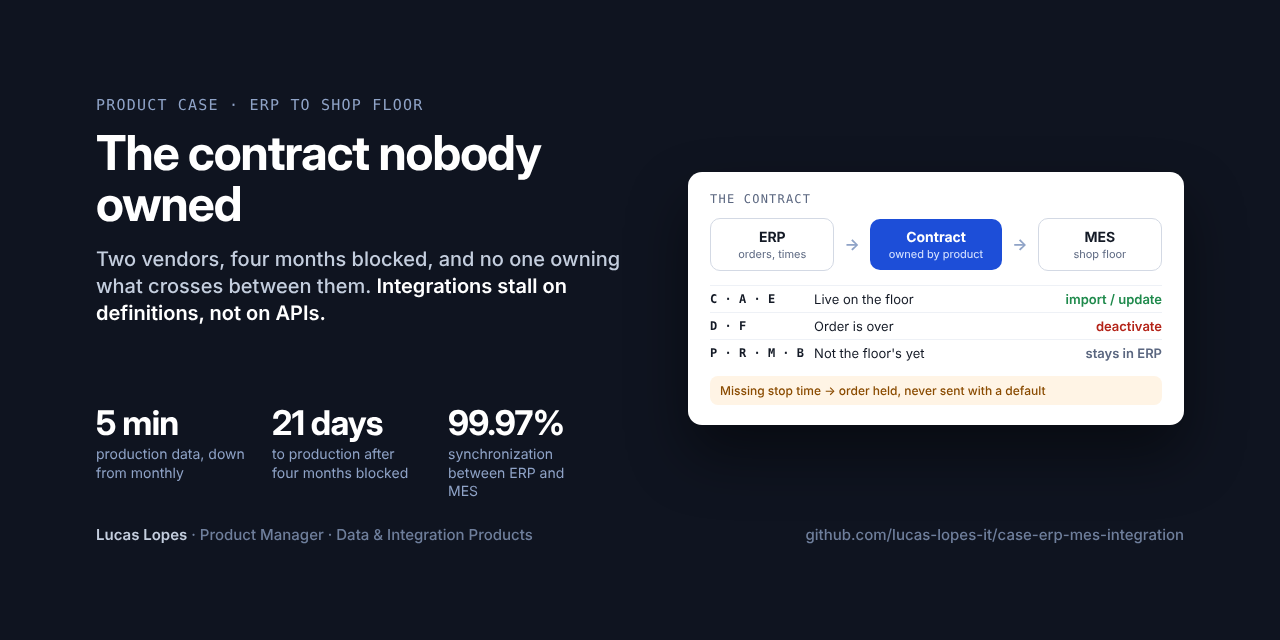
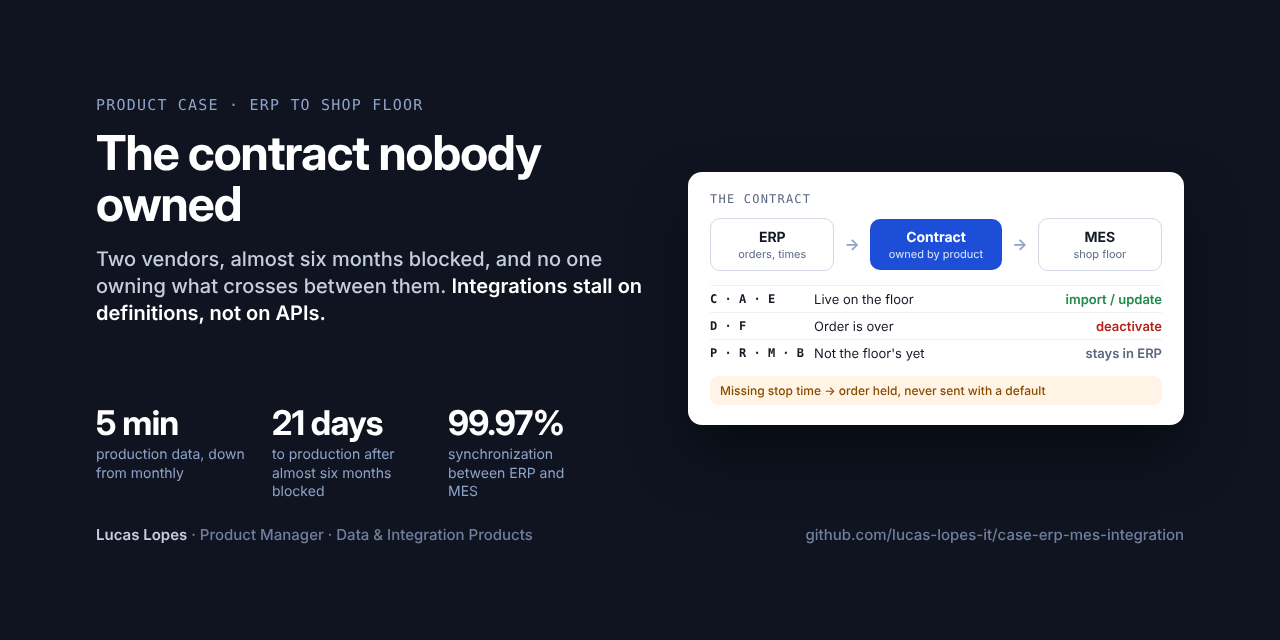
Use almost six months for the blocked period
Aligns the repo and cover with the project leader letter and the skill
matrix.

Claude-Session: https://claude.ai/code/session_013pWEh4TcHNrPo1i61WNHBM

Changed region(s): [[0.0625, 0.375, 0.5, 0.4688], [0.2188, 0.7188, 0.3125, 0.7812]]

diff --git a/docs/img/source/cover.html b/docs/img/source/cover.html
@@ -31,10 +31,10 @@ td.a{text-align:right;font-weight:600}
 <div class="l">
 <div class="tag">Product case · ERP to shop floor</div>
 <h1>The contract nobody owned</h1>
-<div class="tese">Two vendors, four months blocked, and no one owning what crosses between them. <b>Integrations stall on definitions, not on APIs.</b></div>
+<div class="tese">Two vendors, almost six months blocked, and no one owning what crosses between them. <b>Integrations stall on definitions, not on APIs.</b></div>
 <div class="stats">
 <div><div class="n">5 min</div><div class="k">production data, down from monthly</div></div>
-<div><div class="n">21 days</div><div class="k">to production after four months blocked</div></div>
+<div><div class="n">21 days</div><div class="k">to production after almost six months blocked</div></div>
 <div><div class="n">99.97%</div><div class="k">synchronization between ERP and MES</div></div>
 </div></div>
 <div class="r"><div class="card">

diff --git a/README.md b/README.md
@@ -7,7 +7,7 @@
 > or customer information** from the real environment. Products, orders and lines are fictional. The
 > ERP (Sankhya on Oracle) and the MES (Syneco) are represented by their contract, not by their code.
 
-An integration between the ERP and the shop floor that had been stuck between two vendors for four
+An integration between the ERP and the shop floor that had been stuck between two vendors for almost six
 months. It took production data from monthly to every 5 minutes, and went live 21 days after I took ownership of the one thing nobody owned: the definition of
 what crosses from one system to the other.
 
@@ -23,7 +23,7 @@ scope, with both vendors building to it. The full story, in first person, is in
 - **The plant can measure its own efficiency.** With planning, the floor's data closed the first OEE
   from source: 1,932.5 productive hours against 15.9 hours of unplanned stops, 736,727 units, and
   14,428 stops tracked by reason.
-- **Live in 21 days** after about four months blocked between the ERP and MES vendors, with **99.97%
+- **Live in 21 days** after almost six months blocked between the ERP and MES vendors, with **99.97%
   synchronization** between the two systems.
 
 ## The problem
@@ -82,7 +82,7 @@ integration was in production 21 days later.
 | Orders reaching the floor with no manual touch | Did retyping end? | **Measured:** about 77 a day, 10 lines |
 | Synchronization between ERP and MES | Does the floor see what the ERP says? | **Measured:** 99.97% |
 | Stops tracked by reason | Can the plant explain its downtime? | **Measured:** 14,428 stops; 15.9 h unplanned against 1,932.5 h productive |
-| Time from definition to production | Did owning the contract unblock it? | **Measured:** 21 days, after about four months blocked |
+| Time from definition to production | Did owning the contract unblock it? | **Measured:** 21 days, after almost six months blocked |
 | Orders synchronized | Did the first phase land? | **Measured:** 815 in phase 1 |
 | Workflow uptime | Do the integration runs themselves stay up? | **Measured:** 90.2% for the workflows (not the machines); target set for the next phase |
 | Held orders and time to release them | Is the data good enough to send? | **Rebuilt here:** every hold carries the field that failed |

diff --git a/docs/CASE.md b/docs/CASE.md
@@ -3,13 +3,13 @@
 The product story in first person. The decisions are detailed in [DECISIONS.md](DECISIONS.md), the
 contract in [CONTRACT.md](CONTRACT.md), and the code that rebuilds its rules is in this repository.
 
-## Four months of two systems that didn't talk
+## Almost six months of two systems that didn't talk
 
 Ventisol makes fans and air conditioners in Santa Catarina, Brazil. The ERP (Sankhya, on Oracle)
 holds the production orders. The shop floor runs on a MES (Syneco, from the vendor SKA), where
 operators see what to produce, record what they produced and report stops.
 
-When I arrived, the integration between the two had been stuck for about four months. Each vendor
+When I arrived, the integration between the two had been stuck for almost six months. Each vendor
 had its side ready and each one pointed at the other. Meanwhile production was recorded by hand,
 the ERP learned what the factory had made only at the end of the day, and the production records
 that existed were dead data: written down, never used to manage anything.

diff --git a/docs/sprints/sprint-001/review.md b/docs/sprints/sprint-001/review.md
@@ -4,7 +4,7 @@
 
 ## Goal
 
-Unblock an integration that had been stuck between the ERP and MES vendors for about four months,
+Unblock an integration that had been stuck between the ERP and MES vendors for almost six months,
 and put production orders on the floor without retyping.
 
 ## What shipped
@@ -19,7 +19,7 @@ and put production orders on the floor without retyping.
 
 ## Numbers
 
-- 21 days from taking over the definition to production, after about four months blocked.
+- 21 days from taking over the definition to production, after almost six months blocked.
 - Production data from monthly to every 5 minutes.
 - 815 orders synchronized in the first phase, at 99.97% synchronization between ERP and MES.
 

diff --git a/docs/DECISIONS.md b/docs/DECISIONS.md
@@ -14,7 +14,7 @@ integration was built. For A decisions, the status shows what this repository re
 with which fields, who decides when it is wrong) and leave each vendor responsible for its own side.
 
 **Alternatives**
-- Escalate to both vendors and wait for them to agree. It had already been tried for four months.
+- Escalate to both vendors and wait for them to agree. It had already been tried for almost six months.
 - Ask one vendor to own the whole integration. It moves the problem without defining it, and makes
   the client dependent on that vendor for every future change.
 - Build both sides internally. Fastest on paper, but it takes on code that two vendors already

diff --git a/docs/vision/vision.md b/docs/vision/vision.md
@@ -14,7 +14,7 @@ project waits, and the factory keeps retyping.
 
 The usual answers don't solve it:
 
-- escalate to both vendors: it had already been tried for four months;
+- escalate to both vendors: it had already been tried for almost six months;
 - give one vendor the whole integration: it moves the dependency without defining anything;
 - add a middleware product: it connects systems that still disagree on what they mean.
 

diff --git a/docs/sprints/sprint-001/learning.md b/docs/sprints/sprint-001/learning.md
@@ -4,7 +4,7 @@
 
 ### What happened
 
-Two vendors, each with its side ready, each pointing at the other, for four months. Nothing on
+Two vendors, each with its side ready, each pointing at the other, for almost six months. Nothing on
 either side was technically missing. What was missing was a definition of what crosses between them,
 and someone with the authority to decide when they disagreed.
 

diff --git a/docs/CONTRACT.md b/docs/CONTRACT.md
@@ -1,7 +1,7 @@
 # The contract
 
 What crosses the boundary between the ERP and the shop floor, and who owns each part of it. This is
-the document that was missing for four months. The rules marked as rebuilt have tests in this
+the document that was missing for almost six months. The rules marked as rebuilt have tests in this
 repository.
 
 ## Parties

diff --git a/docs/PRD.md b/docs/PRD.md
@@ -8,7 +8,7 @@
 
 Ventisol manufactures fans and air conditioners. Production orders live in the ERP (Sankhya on
 Oracle). The shop floor runs on a MES (Syneco, by SKA). The integration between them had been stuck
-between the two vendors for about four months.
+between the two vendors for almost six months.
 
 ## Problem
 
